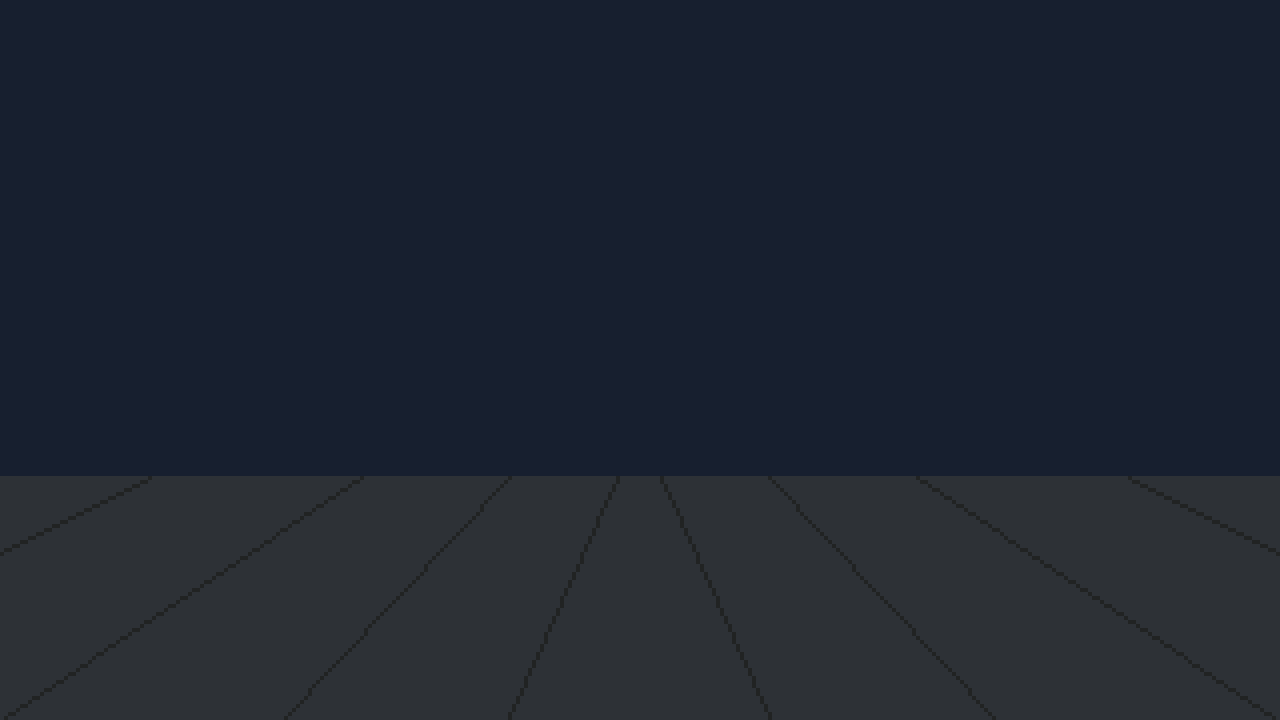
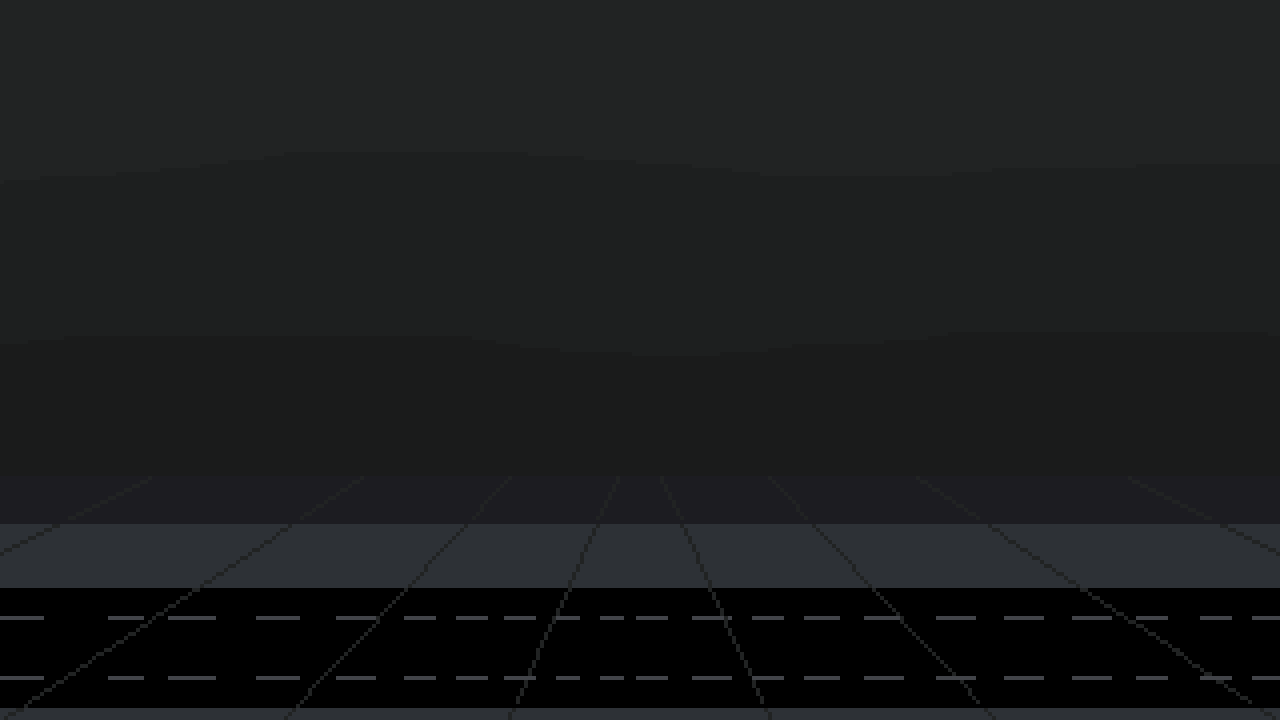
added crowd with statistic based occurences

Changed region(s): [[0.0, 0.7944, 1.0, 1.0]]

diff --git a/scene.py b/scene.py
@@ -1,4 +1,4 @@
-from game.sprite.spritesheet import Spritesheet
+from game.sprite.sprite_group import SpriteGroup
 from game.sprite.background import Background
 from game.sprite.message import Message
 from game.sprite.button import Button
@@ -48,6 +48,13 @@ class Scene():
             self.main.data.setting["autosave_timeout"]
         )
         
+        # Crowd spawner
+        self.crowd_spawner_id = pygame.USEREVENT + 2
+        pygame.time.set_timer(
+            self.crowd_spawner_id,
+            500
+        )
+        
         # Logging entry point
         self.main.debug.log("Entered scene")
         self.main.debug.new_line()
@@ -55,6 +62,7 @@ class Scene():
         # Sprites and sprite groups
         self.general_sprites = pygame.sprite.Group()
         self.buttons = pygame.sprite.Group()
+        self.crowd = SpriteGroup()
         self.background = Background(
             self.main.screen, 
             self.time, 
@@ -62,21 +70,6 @@ class Scene():
         )
         
         # Scene components
-        self.scene_runners = []
-        for index in range(1):
-            self.scene_runners.append(NPC(
-                self.main.screen,
-                "test", 
-                self.main.data.spritesheets["test"]["sheet"],
-                self.main.data.spritesheets["test"]["data"],
-                self.main.data.setting["fps"], 
-                0.1, 180, "left",
-                mid_bottom_coordinates=
-                    (self.main.data.setting["game_width"], 
-                    (self.main.data.setting["game_height"] * 0.70) + (index * 5))
-            )
-        )
-        
         self.profile_holder = Button(
             self.main.screen,
             self.main.data.scene["profile_holder_idle"],
@@ -96,13 +89,18 @@ class Scene():
             self.main.data.orange,
             (160, 75)
         )
+        self.footprint_counter = 0
+        self.footprint_message = Message(
+            self.main.screen, 
+            [f"Footprint: {self.footprint_counter:,} people"], 
+            self.main.data.paragraph_font, 
+            self.main.data.orange,
+            (850, 75)
+        )
         self.background.add(self.general_sprites)
-        
-        for runner in self.scene_runners:
-            runner.add(self.general_sprites)
-        
         self.profile_holder.add(self.general_sprites, self.buttons)
         self.profile_message.add(self.general_sprites)
+        self.footprint_message.add(self.general_sprites)
         
         # Main loop
         self.running = True
@@ -228,6 +226,7 @@ class Scene():
             
             # Rendering sprites
             self.general_sprites.update()
+            self.crowd.draw(self.main.screen)
             
             # Event processing
             for event in pygame.event.get():
@@ -243,6 +242,21 @@ class Scene():
                 if event.type == self.autosave_id:
                     self.update_data()
                     self.main.debug.log("Autosaved progress")
+                if event.type == self.crowd_spawner_id:
+                    random_value = random.randint(0, 100)
+                    if random_value <= self.time.crowd_chance[self.time.time.hour]:
+                        self.footprint_counter += 1
+                        NPC(
+                            self.main.screen,
+                            "test", 
+                            self.main.data.spritesheets["test"]["sheet"],
+                            self.main.data.spritesheets["test"]["data"],
+                            self.main.data.setting["fps"], 
+                            0.1, random.randint(120, 180)
+                        ).add(self.general_sprites, self.crowd)
+                        self.footprint_message.set_message(
+                            [f"Footprint: {self.footprint_counter:,} people"]
+                        )
                 
             # Key pressing events (holding keys applicable)
             keys = pygame.key.get_pressed()

diff --git a/game/npc.py b/game/npc.py
@@ -10,19 +10,29 @@ class NPC(Spritesheet):
     """
     def __init__(self, screen: pygame.Surface, name: str, 
                  spritesheet: pygame.Surface, meta_data: dict, 
-                 fps: int, animation_rate: float, 
-                 speed: int, direction: str,
-                 mid_bottom_coordinates=None, 
-                 center_coordinates=None, 
-                 top_left_coordinates=None):
+                 fps: int, animation_rate: float, speed: int):
         super().__init__(screen, name, spritesheet, meta_data, 
-                         fps, animation_rate, mid_bottom_coordinates, 
-                         center_coordinates, top_left_coordinates)
+                         fps, animation_rate)
         
         self.fps = fps
         self.speed = speed / fps
         self.speed_tick = 0
-        self.direction = direction
+        self.direction = random.choice(["left", "right"])
+        
+        self.crowd_top = int(self.screen.get_height() * 0.75)
+        self.crowd_bottom = int(self.screen.get_height() * 0.82)
+        
+        if self.direction == "left":
+            self.rect.midbottom = (
+                self.screen.get_width() + self.rect.width,
+                random.randint(self.crowd_top, self.crowd_bottom)
+            )
+        elif self.direction == "right":
+            self.is_flipped = True
+            self.rect.midbottom = (
+                0 - self.rect.width,
+                random.randint(self.crowd_top, self.crowd_bottom)
+            )
         
         
     def update(self):
@@ -34,12 +44,10 @@ class NPC(Spritesheet):
             elif self.direction == "right":
                 self.rect.x += absolute_movement
             
-            if self.rect.x <= 0:
-                self.is_flipped = True
-                self.direction = "right"
-            elif self.rect.x + self.rect.width >= self.screen.get_width():
-                self.is_flipped = False
-                self.direction = "left"
+            if self.rect.x <= 0 - self.rect.width and self.direction == "left":
+                self.kill()
+            elif self.rect.x >= self.screen.get_width() + self.rect.width and self.direction == "right":
+                self.kill()
             
             self.speed_tick -= absolute_movement
         

diff --git a/game/sprite/spritesheet.py b/game/sprite/spritesheet.py
@@ -46,8 +46,6 @@ class Spritesheet(pygame.sprite.Sprite):
             self.rect.center = self.center_coordinates
         elif self.top_left_coordinates is not None:
             self.rect.topleft = self.top_left_coordinates
-        else:
-            self.rect = (0, 0)
 
 
     def fetch_sprite(self, name):
@@ -55,12 +53,12 @@ class Spritesheet(pygame.sprite.Sprite):
         x, y, width, height = sprite["x"], sprite["y"], sprite["w"], sprite["h"]
         image = pygame.Surface((width, height), pygame.SRCALPHA, 32)
         image.blit(self.sprite_sheet,(0, 0),(x, y, width, height))
+        self.rect = image.get_rect()
         return image.convert_alpha()
 
 
     def update(self):
         self.animation_tick += 1
-        
         if self.animation_tick >= self.animate_speed:
             self.animation_tick = 0
             self.sprite_index = (self.sprite_index + 1) % len(self.sprites)
@@ -70,4 +68,4 @@ class Spritesheet(pygame.sprite.Sprite):
             else:
                 self.image = self.sprites[self.sprite_index]
             
-        self.screen.blit(self.image, self.rect)
+        # self.screen.blit(self.image, self.rect)

diff --git a/game/sprite/sprite_group.py b/game/sprite/sprite_group.py
@@ -1,0 +1,18 @@
+import pygame
+
+
+class SpriteGroup(pygame.sprite.Group):
+    """
+    Code source: https://stackoverflow.com/questions/55233448/pygame-overlapping-sprites-draw-order-based-on-location
+    Explanation: Problem with rendering when summoning a random crowd with a correct rendering based on y-coordinates
+    """
+    def by_y(self, spr):
+        return spr.rect.y
+
+    def draw(self, surface):
+        sprites = self.sprites()
+        surface_blit = surface.blit
+        for spr in sorted(sprites, key=self.by_y):
+            self.spritedict[spr] = surface_blit(spr.image, spr.rect)
+        self.lostsprites = []
+        

diff --git a/game/time.py b/game/time.py
@@ -34,6 +34,14 @@ class Time():
         self.previous_time = {}
         self.callbacks = callbacks
         self.update_previous_time()
+        
+        # Crowd summon percentage per hour
+        self.crowd_chance = [
+        #   0  1  2  3  4   5   6   7   8   9 10  11  12  13  
+            5, 5, 5, 5, 8, 10, 30, 50, 30, 10, 8, 50, 60, 50, 
+        #   14  15  16   17  18  19  20  21  22 23
+            50, 50, 60, 100, 80, 70, 50, 30, 10, 8
+        ]
 
         
     def tick(self):

diff --git a/test.py b/test.py
@@ -13,4 +13,4 @@ print(time3.days)
 print(time3.seconds)
 """
 
-print(21 >= 8 and 3 < 8)
+print(1623 / 10)
